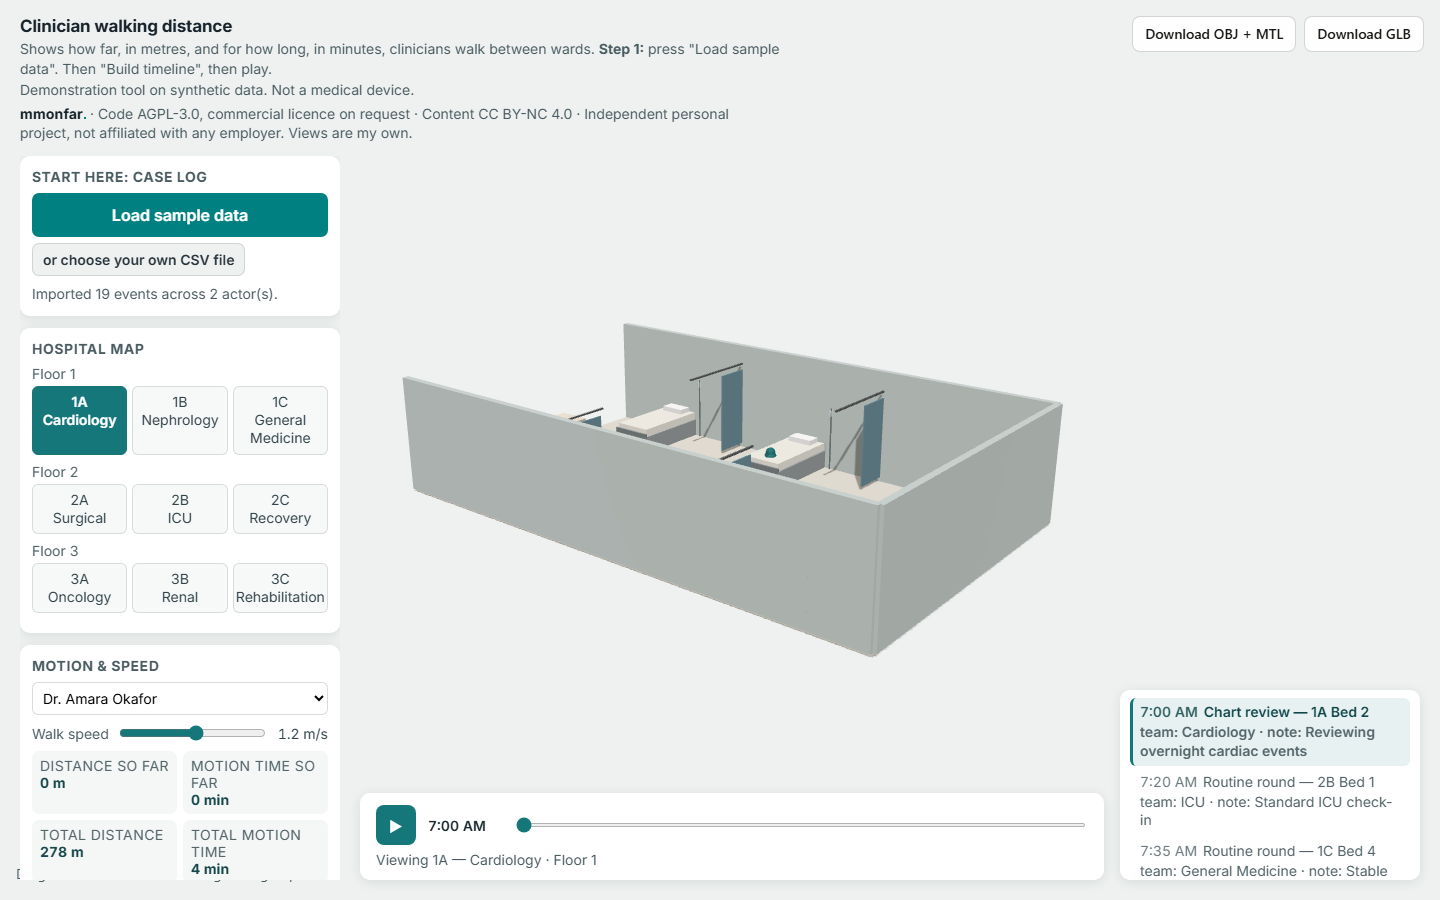
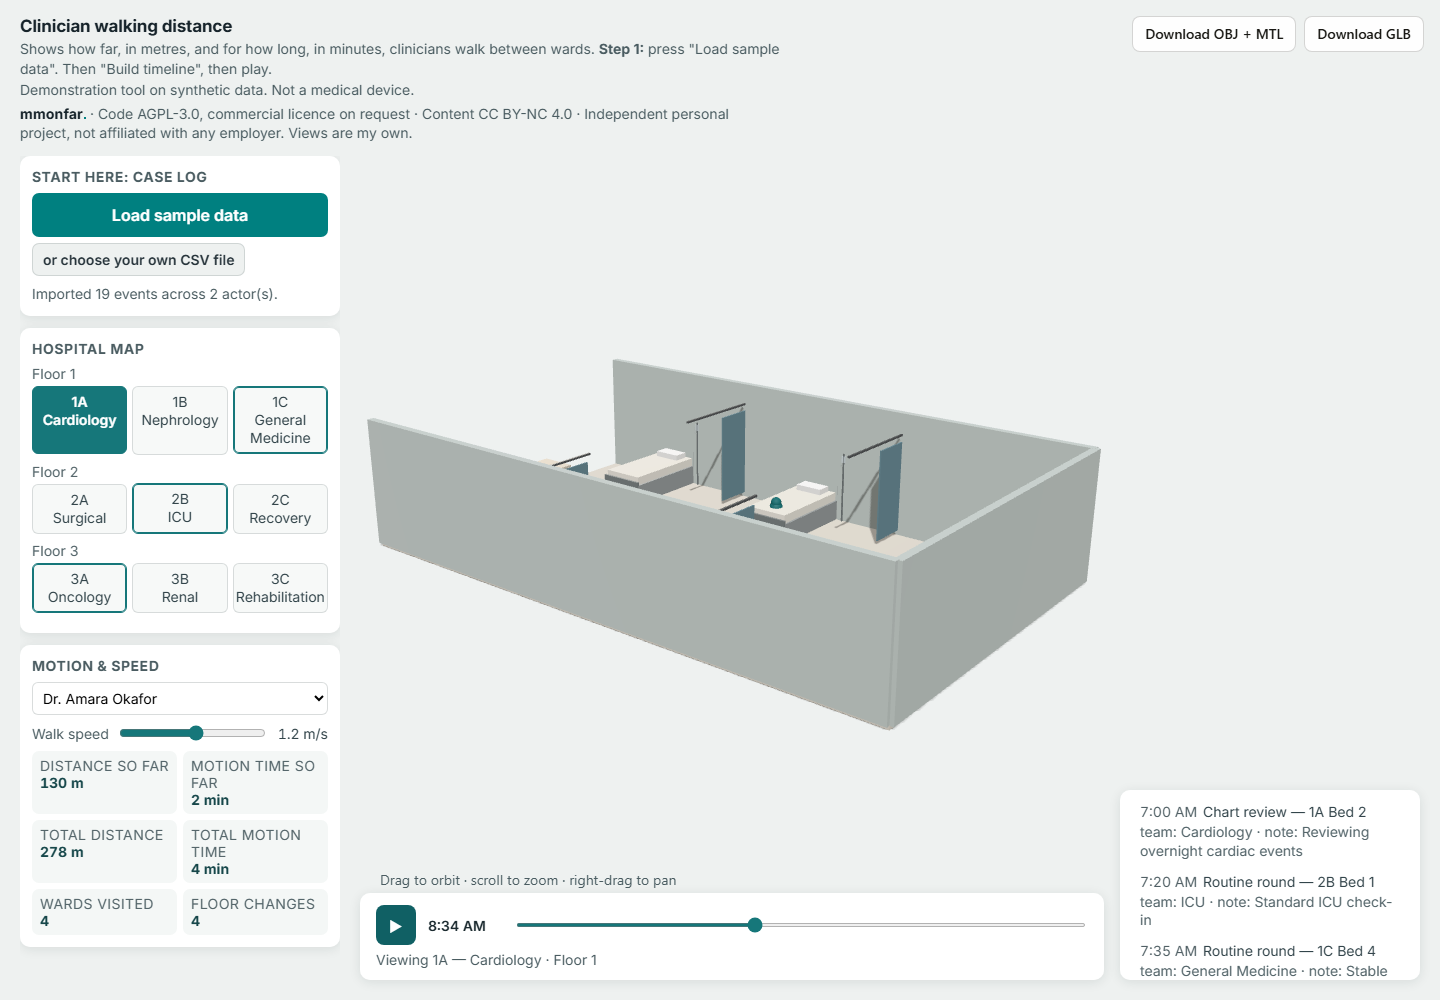
UI: move orbit hint clear of left panel, hide event log on phone; recapture README screenshots mid-playback

diff --git a/web/hospital-ward.html b/web/hospital-ward.html
@@ -98,7 +98,7 @@
     #floormap, #actor-panel { display: none; }
     body.show-more #floormap, body.show-more #actor-panel { display: block; }
     #bottom { flex-direction: column; align-items: stretch; padding: 0 20px 16px 20px; gap: 8px; }
-    #log-panel { width: auto; max-height: 70px; }
+    #log-panel { display: none; }
   }
 </style>
 </head>
@@ -169,7 +169,7 @@ await stage.ready;
 // Download buttons: hidden until data is loaded, moved to the top right so they never sit over the playback bar.
 {
   const st = document.createElement('style');
-  st.textContent = '.toolbar{display:none;top:16px;bottom:auto;flex-wrap:wrap;justify-content:flex-end;max-width:60vw}.toolbar.on{display:flex}.toolbar button{font-size:14px;padding:10px 12px}.note{font-size:14px !important;color:#4a5c61 !important}@media(max-width:700px){.note,.toolbar,.toolbar.on{display:none !important}}';
+  st.textContent = '.toolbar{display:none;top:16px;bottom:auto;flex-wrap:wrap;justify-content:flex-end;max-width:60vw}.toolbar.on{display:flex}.toolbar button{font-size:14px;padding:10px 12px}.note{font-size:14px !important;color:#4a5c61 !important;left:380px !important;bottom:110px !important}@media(max-width:700px){.note,.toolbar,.toolbar.on{display:none !important}}';
   stage.shadowRoot.appendChild(st);
   stage.setToolbarVisible = (on) => stage.shadowRoot.querySelector('.toolbar').classList.toggle('on', on);
 }
